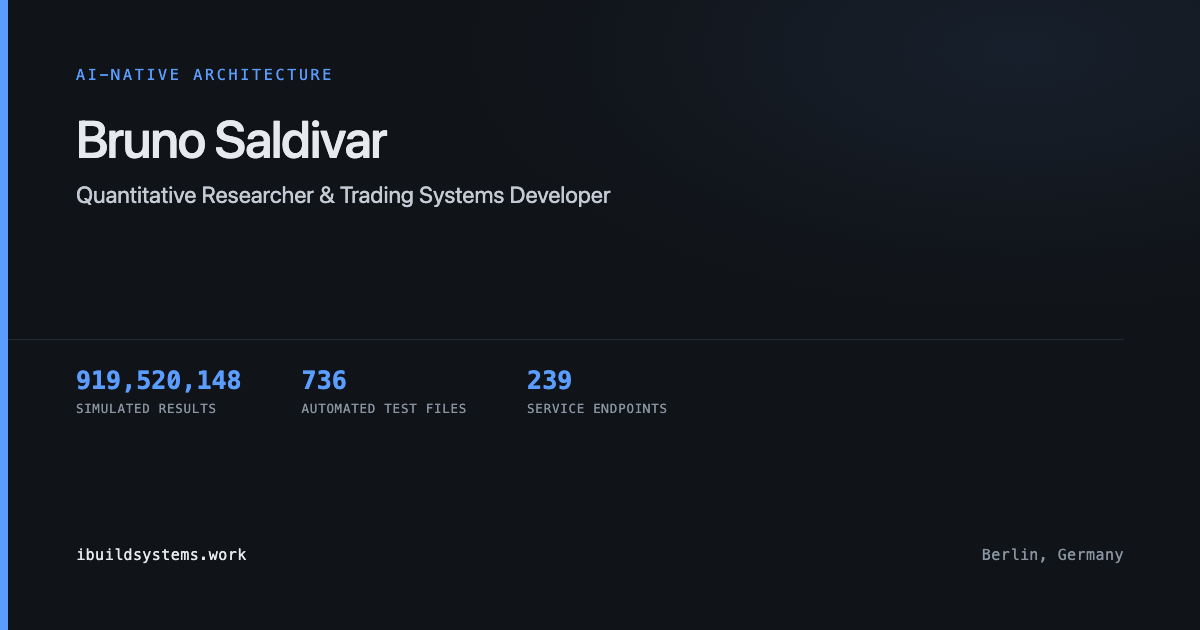
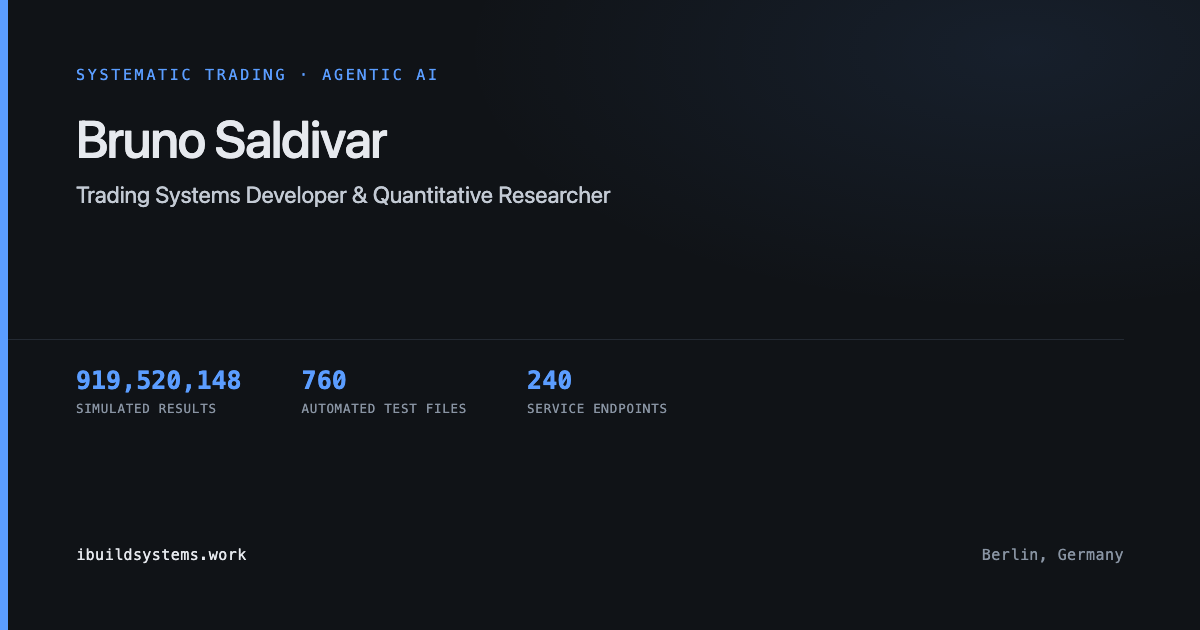
content: October 2026 update
Systematic Trading Decision Engine, Agentic Workflow Orchestration Platform,
energy procurement entry without the residency name, remote roles worldwide,
figures remeasured on 2026-10-07 (1,164 orders, 240 endpoints, 760 test files,
919,520,148 simulated results).

diff --git a/index.html b/index.html
@@ -6,8 +6,8 @@
 
 <!-- El nombre va en el title porque la busqueda que importa es "Bruno Saldivar",
      y hasta 2026-08-01 no aparecia en ningun metadato. -->
-<title>Bruno Saldivar · Quantitative Researcher &amp; Trading Systems Developer · Berlin</title>
-<meta name="description" content="Bruno Saldivar, quantitative researcher and trading systems developer in Berlin. Alexandria is a live MT5 research and execution platform, designed, built and operated solo.">
+<title>Bruno Saldivar · Trading Systems Developer · Systematic Trading Decision Engine · Quantitative Research · Agentic AI</title>
+<meta name="description" content="Bruno Saldivar, trading systems developer and quantitative researcher. Alexandria is a live MT5 research and execution platform, designed, built and operated solo, evolving into a Systematic Trading Decision Engine. Energy and power procurement research, agentic AI systems. Open to remote roles.">
 <meta name="author" content="Bruno Saldivar">
 <meta name="robots" content="index, follow, max-image-preview:large">
 <link rel="canonical" href="https://ibuildsystems.work/">
@@ -17,16 +17,16 @@
 <meta property="og:site_name" content="Bruno Saldivar">
 <meta property="og:locale" content="en_US">
 <meta property="og:url" content="https://ibuildsystems.work/">
-<meta property="og:title" content="Bruno Saldivar · Quantitative Researcher &amp; Trading Systems Developer">
-<meta property="og:description" content="Alexandria is a live MT5 research and execution platform, designed, built and operated solo. Every figure on the page traces back to the file it came from.">
+<meta property="og:title" content="Bruno Saldivar · Trading Systems Developer · Systematic Trading Decision Engine">
+<meta property="og:description" content="Alexandria is a live MT5 research and execution platform, designed, built and operated solo, evolving into a Systematic Trading Decision Engine. Quantitative research for energy and power procurement, agentic AI systems. Every figure on the page traces back to the file it came from.">
 <meta property="og:image" content="https://ibuildsystems.work/og-card.png">
 <meta property="og:image:width" content="1200">
 <meta property="og:image:height" content="630">
-<meta property="og:image:alt" content="Bruno Saldivar, quantitative researcher and trading systems developer, Berlin">
+<meta property="og:image:alt" content="Bruno Saldivar, trading systems developer and quantitative researcher">
 
 <meta name="twitter:card" content="summary_large_image">
-<meta name="twitter:title" content="Bruno Saldivar · Quantitative Researcher &amp; Trading Systems Developer">
-<meta name="twitter:description" content="Alexandria is a live MT5 research and execution platform, designed, built and operated solo.">
+<meta name="twitter:title" content="Bruno Saldivar · Trading Systems Developer · Systematic Trading Decision Engine">
+<meta name="twitter:description" content="Alexandria is a live MT5 research and execution platform, designed, built and operated solo, evolving into a Systematic Trading Decision Engine.">
 <meta name="twitter:image" content="https://ibuildsystems.work/og-card.png">
 
 <script type="application/ld+json">
@@ -36,7 +36,7 @@
   "name": "Bruno Saldivar",
   "url": "https://ibuildsystems.work/",
   "image": "https://ibuildsystems.work/og-card.png",
-  "jobTitle": "Quantitative Researcher and Trading Systems Developer",
+  "jobTitle": "Trading Systems Developer and Quantitative Researcher",
   "email": "mailto:bru.daytrader@gmail.com",
   "address": {
     "@type": "PostalAddress",
@@ -51,7 +51,13 @@
   "knowsAbout": [
     "Quantitative research",
     "Algorithmic trading",
+    "Systematic trading",
     "Trading systems development",
+    "Offline policy learning",
+    "Off-policy evaluation",
+    "Energy and power procurement",
+    "Agentic AI systems",
+    "Multi-agent orchestration",
     "Backtesting",
     "Monte Carlo simulation",
     "Market data pipelines",
@@ -165,6 +171,7 @@
     color:var(--dim); padding-top:3px;
   }
   .next h3 { margin:0 0 7px; font-size:15px; font-weight:650 }
+  .next .sub { margin:0 0 9px; font-family:var(--mono); font-size:12px; color:var(--signal); letter-spacing:.04em }
   .next p { margin:0; font-size:13.5px; line-height:1.65; color:var(--dim); max-width:88ch }
   .ip {
     margin:24px 0 0; font-family:var(--mono); font-size:12px; color:#6f7887;
@@ -397,19 +404,21 @@
     <nav>
       <a href="#background">Background</a>
       <a href="#contact">Contact</a>
-      <span class="status"><span class="dot"></span>Open to roles</span>
+      <span class="status"><span class="dot"></span>Open to remote roles</span>
     </nav>
   </header>
 
   <section class="intro">
     <h1>Trading Systems Developer</h1>
-    <p class="disciplines">Systematic and algorithmic trading · Quant research · Reinforcement-learning decision systems · AI-assisted engineering</p>
+    <p class="disciplines">Systematic and algorithmic trading · Energy trading &amp; procurement · Quant research · Systematic trading decision engine · Agentic AI engineering</p>
     <p class="craft">Backtesting · Monte Carlo · Risk systems · Execution diagnostics</p>
     <p class="pitch">
       Five years of independent quantitative research and applied market study, since February
       2021. I build trading research systems that connect market hypotheses, reproducible
       experiments, risk controls, live MT5 execution and post-trade diagnosis. Alexandria is the
-      fourth system in that progression, and the one I designed, built and operate alone.
+      fourth system in that progression, and the one I designed, built and operate alone. It is
+      now evolving into a Systematic Trading Decision Engine, built with my own Agentic Workflow
+      Orchestration Platform.
     </p>
   </section>
 
@@ -442,28 +451,28 @@
         <div class="i">04</div>
         <h3>Risk</h3>
         <p>Monte Carlo stress analysis, position sizing, combined exposure, daily and total drawdown limits.</p>
-        <div class="fig">3,000<small>simulation runs</small></div>
+        <div class="fig">3,000<small>Monte Carlo runs per finalist</small></div>
       </div>
 
       <div class="stage">
         <div class="i">05</div>
         <h3>Execution</h3>
         <p>Broker preflight, MT5 order submission, persisted lifecycle state, restart recovery, end-of-day controls, and post-trade P&amp;L reconciliation against broker truth to the cent.</p>
-        <div class="fig">1,066<small>executed order records</small></div>
+        <div class="fig">1,164<small>executed order records</small></div>
       </div>
 
       <div class="stage">
         <div class="i">06</div>
         <h3>Operations</h3>
         <p>REST APIs, health and readiness telemetry, automated daily, weekly and monthly reporting, signal to order to fill diagnostics, and silent-failure detection: the business ledger is cross-checked against an independent process heartbeat, so a channel that is alive but not writing is never reported as a normal day.</p>
-        <div class="fig">239<small>service endpoints</small></div>
+        <div class="fig">240<small>service endpoints</small></div>
       </div>
 
       <div class="stage">
         <div class="i">07</div>
         <h3>Quality</h3>
         <p>Regression, integration, golden-case and failure-path tests, git-hook automation on every commit, automated deployment through GitHub Actions.</p>
-        <div class="fig">736<small>automated test files</small></div>
+        <div class="fig">760<small>automated test files</small></div>
       </div>
 
     </div>
@@ -471,12 +480,15 @@
     <div class="next">
       <div class="next-tag">08</div>
       <div>
-        <h3>Decision layer</h3>
+        <h3>Systematic Trading Decision Engine</h3>
+        <div class="sub">Offline policy learning · Off-policy evaluation · Champion-challenger governance</div>
         <p>
-          A sequential decision engine above the chain, designed for reinforcement learning over
-          recurrent sequence models, that learns from the platform's own trading experience. Every
-          candidate policy must beat simpler baselines, pass counterfactual evaluation and
-          statistical promotion gates, and stays under a hard safety veto before anything goes live.
+          Alexandria is evolving from deterministic rules into a decision engine above the chain. The
+          data picks the model family, with reinforcement learning among the candidates. Every
+          candidate policy must beat simpler baselines and pass statistical promotion gates under a
+          hard safety veto before it can reach capital. The foundation so far: 96 TypeScript modules,
+          25 typed contract modules and 32 JSON schemas, verified by 3,516 passing tests, with 50 of
+          70 planned tasks delivered.
         </p>
       </div>
     </div>
@@ -495,8 +507,8 @@
         above every day. I would rather take longer and build something that keeps running without me.
       </p>
       <p>
-        One search ran <b>792 million simulated results</b> across ten markets and three years of
-        history, in a single pass, ranked walk-forward and out of sample. Then the survivors go
+        Two research engines have produced <b>919,520,148 simulated results</b> across ten markets
+        and three years of history, every figure traced to a run manifest. The survivors then go
         through Monte Carlo stress before anything reaches a live account.
       </p>
       <p>
@@ -506,8 +518,8 @@
     </div>
     <dl class="facts">
       <dt>Based in</dt><dd>Berlin, Germany</dd>
-      <dt>Status</dt><dd class="on">Open to roles across Europe</dd>
-      <dt>Looking for</dt><dd>Quantitative research · Trading platforms · Market data · Backend fintech</dd>
+      <dt>Status</dt><dd class="on">Open to remote roles worldwide</dd>
+      <dt>Looking for</dt><dd>Systematic trading · Energy trading · Quantitative development · Trading platforms · Remote</dd>
       <dt>Stack</dt><dd>JavaScript · TypeScript · Python · Node.js · Express · React · MQL5 / MT5 · Streamlit</dd>
       <dt>Languages</dt><dd>Spanish native · English professional · German A2.2, working toward B1</dd>
     </dl>
@@ -530,11 +542,15 @@
       </div>
       <div class="row">
         <div class="k">Decision systems</div>
-        <div class="v">Sequential decision engines, reinforcement learning with recurrent memory, counterfactual evaluation, statistical promotion gates, hard safety veto.</div>
+        <div class="v">Offline policy learning, off-policy evaluation, champion-challenger governance, statistical promotion gates, hard safety veto; reinforcement learning among the candidate model families.</div>
       </div>
       <div class="row">
         <div class="k">Evaluation</div>
         <div class="v">Expected-versus-actual analysis, signal-to-fill diagnostics, golden cases, regression testing.</div>
+      </div>
+      <div class="row">
+        <div class="k">Agentic engineering</div>
+        <div class="v">Multi-agent orchestration across accounts and model families, parallel work, independent review, test-regression merge gates, one shared engineering standard.</div>
       </div>
       <div class="row">
         <div class="k">Engineering</div>
@@ -552,23 +568,24 @@
         <span><i style="background:#b8862f"></i>Employment &amp; training</span>
         <span><i style="background:#3987e5"></i>Systems built</span>
       </div>
-      <div class="g-head"><span></span><div class="g-axis" style="position:relative"><span class="g-now-lab" style="left:95.83%">NOW</span><span>2021</span><span>2022</span><span>2023</span><span>2024</span><span>2025</span><span>2026</span></div></div>
+      <div class="g-head"><span></span><div class="g-axis" style="position:relative"><span class="g-now-lab" style="left:97.22%">NOW</span><span>2021</span><span>2022</span><span>2023</span><span>2024</span><span>2025</span><span>2026</span></div></div>
       <div class="g-rows" id="gRows">
-        <div class="g-row"><span class="g-lab">Independent quantitative research</span><div class="g-track"><div class="g-now" style="left:95.83%"></div><div class="g-hit" style="left:1.39%;width:94.44%" data-t="Independent quantitative research" data-d="Feb 2021 - present"><div class="g-bar" data-k="base"></div></div></div></div>
+        <div class="g-row"><span class="g-lab">Independent quantitative research</span><div class="g-track"><div class="g-now" style="left:97.22%"></div><div class="g-hit" style="left:1.39%;width:95.83%" data-t="Independent quantitative research" data-d="Feb 2021 - present"><div class="g-bar" data-k="base"></div></div></div></div>
         <div class="g-group"><span>Strategy study</span><div></div></div>
-        <div class="g-row"><span class="g-lab">Technical indicators</span><div class="g-track"><div class="g-now" style="left:95.83%"></div><div class="g-hit" style="left:1.39%;width:30.56%" data-t="Technical indicators" data-d="2021 - 2022"><div class="g-bar" data-k="stu"></div></div></div></div>
-        <div class="g-row"><span class="g-lab">Price action structure &amp; ranges</span><div class="g-track"><div class="g-now" style="left:95.83%"></div><div class="g-hit" style="left:16.67%;width:33.33%" data-t="Price action structure and trading ranges" data-d="2022 - 2023"><div class="g-bar" data-k="stu"></div></div></div></div>
-        <div class="g-row"><span class="g-lab">Liquidity &amp; key levels</span><div class="g-track"><div class="g-now" style="left:95.83%"></div><div class="g-hit" style="left:33.33%;width:50.0%" data-t="Liquidity taxonomy and key price levels" data-d="2023 - 2025"><div class="g-bar" data-k="stu"></div></div></div></div>
-        <div class="g-row"><span class="g-lab">Systematic &amp; algorithmic execution</span><div class="g-track"><div class="g-now" style="left:95.83%"></div><div class="g-hit" style="left:50.0%;width:41.67%" data-t="Systematic and algorithmic execution" data-d="2024 - present"><div class="g-bar" data-k="stu"></div></div></div></div>
-        <div class="g-row"><span class="g-lab">SPICED Academy · bootcamp</span><div class="g-track"><div class="g-now" style="left:95.83%"></div><div class="g-hit" style="left:18.06%;width:4.17%" data-t="SPICED Academy · Data Science bootcamp" data-d="Feb - May 2022 · 480+ hours"><div class="g-bar" data-k="job"></div></div></div></div>
-        <div class="g-row"><span class="g-lab">Rabot Crypto · quant research</span><div class="g-track"><div class="g-now" style="left:95.83%"></div><div class="g-hit" style="left:27.78%;width:31.94%" data-t="Rabot Crypto · quant research" data-d="Sep 2022 - Aug 2024"><div class="g-bar" data-k="job"></div></div></div></div>
-        <div class="g-row"><span class="g-lab">Power procurement · HomeDAO, Oxford</span><div class="g-track"><div class="g-now" style="left:95.83%"></div><div class="g-hit" style="left:94.44%;width:1.39%" data-t="Quantitative research, power procurement" data-d="Sep 2026 - present · early-stage energy project (confidential) · HomeDAO residency, Oxford"><div class="g-bar" data-k="job"></div></div></div></div>
-        <div class="g-row"><span class="g-lab">Indicator scripting · Pine Script / MQL5</span><div class="g-track"><div class="g-now" style="left:95.83%"></div><div class="g-hit" style="left:50.0%;width:23.61%" data-t="Indicator scripting in Pine Script and MQL5" data-d="2024 - mid 2025 · TradingView scripts ported to MQL5"><div class="g-bar" data-k="sys"></div></div></div></div>
+        <div class="g-row"><span class="g-lab">Technical indicators</span><div class="g-track"><div class="g-now" style="left:97.22%"></div><div class="g-hit" style="left:1.39%;width:30.56%" data-t="Technical indicators" data-d="2021 - 2022"><div class="g-bar" data-k="stu"></div></div></div></div>
+        <div class="g-row"><span class="g-lab">Price action structure &amp; ranges</span><div class="g-track"><div class="g-now" style="left:97.22%"></div><div class="g-hit" style="left:16.67%;width:33.33%" data-t="Price action structure and trading ranges" data-d="2022 - 2023"><div class="g-bar" data-k="stu"></div></div></div></div>
+        <div class="g-row"><span class="g-lab">Liquidity &amp; key levels</span><div class="g-track"><div class="g-now" style="left:97.22%"></div><div class="g-hit" style="left:33.33%;width:50.0%" data-t="Liquidity taxonomy and key price levels" data-d="2023 - 2025"><div class="g-bar" data-k="stu"></div></div></div></div>
+        <div class="g-row"><span class="g-lab">Systematic &amp; algorithmic execution</span><div class="g-track"><div class="g-now" style="left:97.22%"></div><div class="g-hit" style="left:50.0%;width:41.67%" data-t="Systematic and algorithmic execution" data-d="2024 - present"><div class="g-bar" data-k="stu"></div></div></div></div>
+        <div class="g-row"><span class="g-lab">SPICED Academy · bootcamp</span><div class="g-track"><div class="g-now" style="left:97.22%"></div><div class="g-hit" style="left:18.06%;width:4.17%" data-t="SPICED Academy · Data Science bootcamp" data-d="Feb - May 2022 · 480+ hours"><div class="g-bar" data-k="job"></div></div></div></div>
+        <div class="g-row"><span class="g-lab">Rabot Crypto · quant research</span><div class="g-track"><div class="g-now" style="left:97.22%"></div><div class="g-hit" style="left:27.78%;width:31.94%" data-t="Rabot Crypto · quant research" data-d="Sep 2022 - Aug 2024"><div class="g-bar" data-k="job"></div></div></div></div>
+        <div class="g-row"><span class="g-lab">Power procurement · Oxford</span><div class="g-track"><div class="g-now" style="left:97.22%"></div><div class="g-hit" style="left:94.44%;width:2.78%" data-t="Quantitative research, power procurement" data-d="Sep 2026 - present · Confidential early-stage energy company · Oxford, UK (on-site)"><div class="g-bar" data-k="job"></div></div></div></div>
+        <div class="g-row"><span class="g-lab">Agentic AI platform</span><div class="g-track"><div class="g-now" style="left:97.22%"></div><div class="g-hit" style="left:94.44%;width:2.78%" data-t="Agentic Workflow Orchestration Platform" data-d="Sep 2026 - present · Augmented Intelligence Workspace"><div class="g-bar" data-k="sys"></div></div></div></div>
+        <div class="g-row"><span class="g-lab">Indicator scripting · Pine Script / MQL5</span><div class="g-track"><div class="g-now" style="left:97.22%"></div><div class="g-hit" style="left:50.0%;width:23.61%" data-t="Indicator scripting in Pine Script and MQL5" data-d="2024 - mid 2025 · TradingView scripts ported to MQL5"><div class="g-bar" data-k="sys"></div></div></div></div>
         <div class="g-group"><span>The four systems</span><div></div></div>
-        <div class="g-row"><span class="g-lab">First · multi-timeframe research</span><div class="g-track"><div class="g-now" style="left:95.83%"></div><div class="g-hit" style="left:73.61%;width:1.39%" data-t="Multi-timeframe strategy research" data-d="Jun 2025 · first system"><div class="g-bar" data-k="sys"></div></div></div></div>
-        <div class="g-row"><span class="g-lab">Second · Python / Streamlit</span><div class="g-track"><div class="g-now" style="left:95.83%"></div><div class="g-hit" style="left:76.39%;width:1.39%" data-t="Python / Streamlit application" data-d="Aug - Sep 2025 · second system"><div class="g-bar" data-k="sys"></div></div></div></div>
-        <div class="g-row"><span class="g-lab">Third · React / TypeScript</span><div class="g-track"><div class="g-now" style="left:95.83%"></div><div class="g-hit" style="left:79.17%;width:1.39%" data-t="React / TypeScript platform" data-d="Oct - Nov 2025 · third system"><div class="g-bar" data-k="sys"></div></div></div></div>
-        <div class="g-row" data-em=""><span class="g-lab">Fourth · Alexandria, in production</span><div class="g-track"><div class="g-now" style="left:95.83%"></div><div class="g-hit" data-em="" style="left:80.56%;width:15.28%" data-t="Alexandria" data-d="Nov 2025 - present · in production"><div class="g-bar" data-k="sys"></div></div></div></div>
+        <div class="g-row"><span class="g-lab">First · multi-timeframe research</span><div class="g-track"><div class="g-now" style="left:97.22%"></div><div class="g-hit" style="left:73.61%;width:1.39%" data-t="Multi-timeframe strategy research" data-d="Jun 2025 · first system"><div class="g-bar" data-k="sys"></div></div></div></div>
+        <div class="g-row"><span class="g-lab">Second · Python / Streamlit</span><div class="g-track"><div class="g-now" style="left:97.22%"></div><div class="g-hit" style="left:76.39%;width:1.39%" data-t="Python / Streamlit application" data-d="Aug - Sep 2025 · second system"><div class="g-bar" data-k="sys"></div></div></div></div>
+        <div class="g-row"><span class="g-lab">Third · React / TypeScript</span><div class="g-track"><div class="g-now" style="left:97.22%"></div><div class="g-hit" style="left:79.17%;width:1.39%" data-t="React / TypeScript platform" data-d="Oct - Nov 2025 · third system"><div class="g-bar" data-k="sys"></div></div></div></div>
+        <div class="g-row" data-em=""><span class="g-lab">Fourth · Alexandria, in production</span><div class="g-track"><div class="g-now" style="left:97.22%"></div><div class="g-hit" data-em="" style="left:80.56%;width:16.67%" data-t="Alexandria" data-d="Nov 2025 - present · in production"><div class="g-bar" data-k="sys"></div></div></div></div>
         <div class="g-tip" id="gTip"></div>
       </div>
     </div>
@@ -577,8 +594,15 @@
       <div class="tl-row">
         <div class="tl-when">Sep 2026 to now</div>
         <div class="tl-what">
-          <h4>Quantitative research, power procurement · early-stage energy project (confidential), HomeDAO residency</h4>
-          <p>Oxford, UK. Quantitative research and strategy development: when to buy, at what price and under which contract structure, to lower the client's energy cost.</p>
+          <h4>Quantitative research, power procurement · Confidential early-stage energy company</h4>
+          <p>Oxford, UK (on-site). Built in one month a research and backtesting platform for power and gas procurement in European markets, with a hypothesis-driven method over 5 strategy families and a market-state observability layer. Every hypothesis is measured against the client's current buying practice and a market benchmark; the first end-to-end test sets the starting baseline, not the final result. Technical lead directing an AI engineering team: 721 commits and 198 test files.</p>
+        </div>
+      </div>
+      <div class="tl-row">
+        <div class="tl-when">Sep 2026 to now</div>
+        <div class="tl-what">
+          <h4>Agentic AI Systems Developer · Agentic Workflow Orchestration Platform</h4>
+          <p>Berlin, remote. My own augmented intelligence workspace: AI agents work in parallel across 6 provider accounts and 4 model families under one shared engineering standard, with independent review and a test-regression gate on every merge. 144 merged tasks in 3 codebases from 2,500+ agent runs, 95 of them merged autonomously, and 776 commits in 15 days with 1,953 tests passing.</p>
         </div>
       </div>
       <div class="tl-row">

diff --git a/og-card.source.html b/og-card.source.html
@@ -1,6 +1,7 @@
 <!-- Fuente de og-card.png (1200x630). Elegida por Bru entre 10 borradores,
      Telegram 2026-08-01. Texto = lo canonico compartido con LinkedIn y el CV.
-     Regenerar: Chrome --headless --window-size=1200,630 --screenshot=og-card.png -->
+     Regenerar: Chrome --headless --window-size=1200,630 --screenshot=og-card.png
+     2026-10-07, Bru: kicker y rol alineados con el titular nuevo; cifras remedidas ese dia. -->
 <!DOCTYPE html><html><head><meta charset="utf-8"><style>
 :root{--bg:#101317;--panel:#171b21;--fg:#e6e9ee;--dim:#8994a3;--hair:#242a33;--signal:#5b9dff;
 --sans:system-ui,-apple-system,"Helvetica Neue",Arial,sans-serif;
@@ -21,6 +22,6 @@ body{justify-content:space-between;padding-left:0}
 .bar{position:absolute;left:0;top:0;bottom:0;width:8px;background:var(--signal)}
 .pad{padding-left:76px}</style></head><body style="position:relative">
 <div class="bar"></div>
-<div class="pad"><p class="kick">AI-Native Architecture</p><p class="name" style="margin:24px 0 12px">Bruno Saldivar</p><p class="role">Quantitative Researcher &amp; Trading Systems Developer</p></div>
-<div class="pad" style="padding-top:26px;border-top:1px solid var(--hair)"><div style="display:flex;gap:60px"><div class="fig"><b>919,520,148</b><span>SIMULATED RESULTS</span></div><div class="fig"><b>736</b><span>AUTOMATED TEST FILES</span></div><div class="fig"><b>239</b><span>SERVICE ENDPOINTS</span></div></div></div>
+<div class="pad"><p class="kick">Systematic Trading · Agentic AI</p><p class="name" style="margin:24px 0 12px">Bruno Saldivar</p><p class="role">Trading Systems Developer &amp; Quantitative Researcher</p></div>
+<div class="pad" style="padding-top:26px;border-top:1px solid var(--hair)"><div style="display:flex;gap:60px"><div class="fig"><b>919,520,148</b><span>SIMULATED RESULTS</span></div><div class="fig"><b>760</b><span>AUTOMATED TEST FILES</span></div><div class="fig"><b>240</b><span>SERVICE ENDPOINTS</span></div></div></div>
 <div class="pad foot" style="display:flex;justify-content:space-between"><b>ibuildsystems.work</b><span>Berlin, Germany</span></div></body></html>
